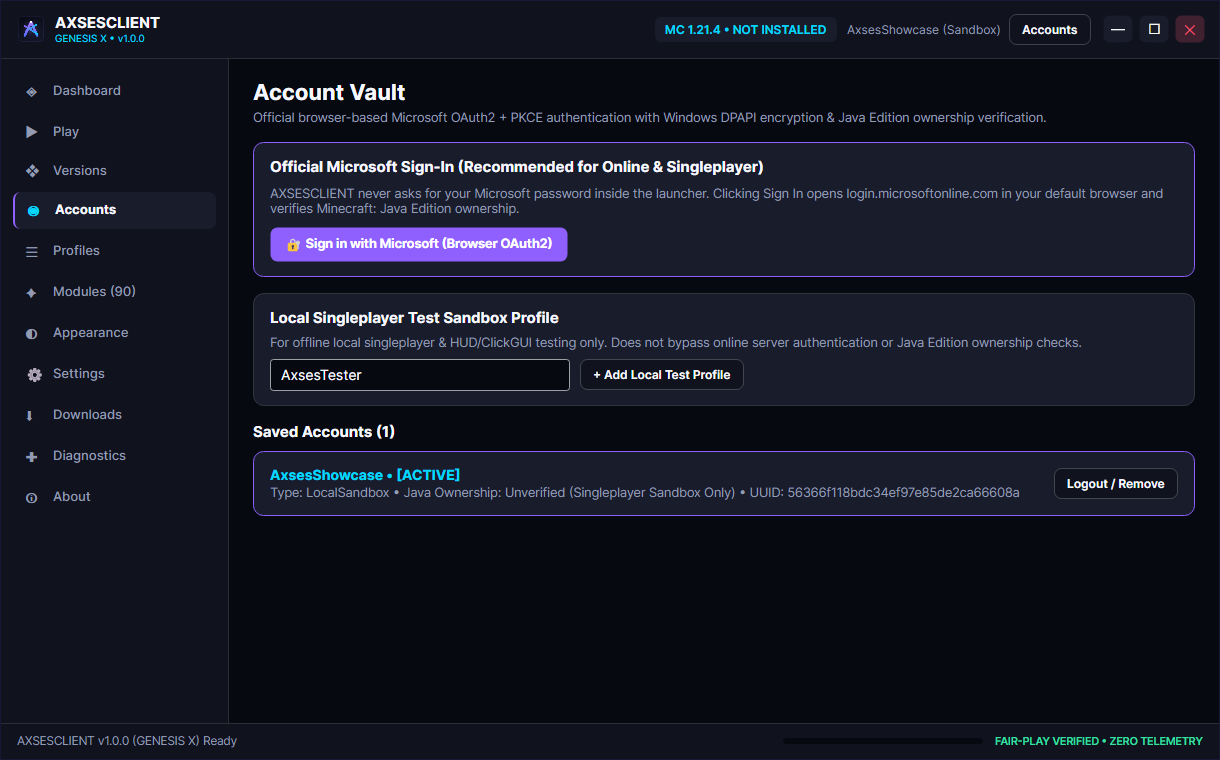
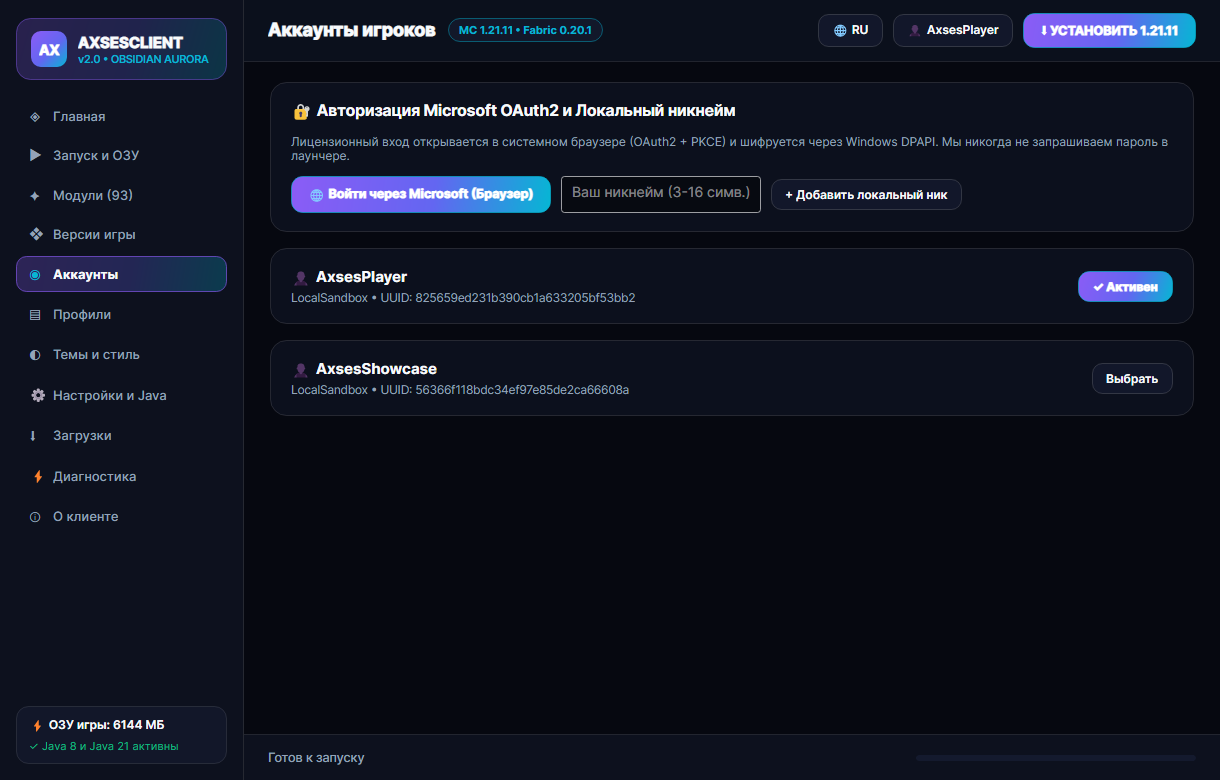
docs(v2.0): update BUILD_REPORT, manifest, SHA256SUMS & Windows UI screenshots [skip ci]

diff --git a/AXSESCLIENT/documentation/BUILD_REPORT.md b/AXSESCLIENT/documentation/BUILD_REPORT.md
@@ -1,119 +1,34 @@
-# AXSESCLIENT (Codename: GENESIS X) v1.0.0 — Engineering Build & Verification Report
+# AXSESCLIENT v2.0.0 (OBSIDIAN AURORA) — Отчёт о сборке и проверке
 
-- **Release Version:** `1.0.0` (`GENESIS X`)
-- **Build Date:** `2026-10-31`
-- **Repository & Branch:** `egorbelovziiik-design/WinLauncher` (`arena/b5b3cc60-winlauncher`)
-- **Verified CI Pipeline Run:** GitHub Actions Run `41138065290`
-  - Job `124345321985` — *Build Fabric Mods & Real C#-Engine Xvfb Minecraft Tests (1.16.5, 1.21.4, 1.21.11)*: **PASSED**
-  - Job `124347071509` — *Package & Verify Windows x64 AXSESCLIENT.exe & AXSESCLIENT-Setup.exe*: **PASSED**
+## Прямые ссылки на скачивание (GitHub Release `axsesclient-v2.0.0`)
 
----
-
-## 1. Deliverable Artifacts & SHA-256 Checksums
-
-All compiled deliverables and documentation files are staged in `/home/user/WinLauncher/AXSESCLIENT-RELEASE/` (and mirrored in `/home/user/WinLauncher/AXSESCLIENT/release/` metadata):
-
-| Artifact | Path | Byte Size | SHA-256 Checksum | Target Runtime |
-|---|---|---:|---|---|
[5 lines of base64/hex data omitted]
-
-Documentation bundle in `AXSESCLIENT-RELEASE/`:
-- `AXSESCLIENT-RELEASE/README.md`
-- `AXSESCLIENT-RELEASE/CHANGELOG.md`
-- `AXSESCLIENT-RELEASE/BUILD_REPORT.md`
-- `AXSESCLIENT-RELEASE/DESIGN_RESEARCH.md`
-- `AXSESCLIENT-RELEASE/LICENSES.md`
-- `AXSESCLIENT-RELEASE/SHA256SUMS.txt`
+- **Страница релиза v2.0.0**: https://github.com/egorbelovziiik-design/WinLauncher/releases/tag/axsesclient-v2.0.0
+- **`AXSESCLIENT-Setup.exe` (Установщик Windows 10/11 x64 — рекомендуется)**: https://github.com/egorbelovziiik-design/WinLauncher/releases/download/axsesclient-v2.0.0/AXSESCLIENT-Setup.exe
+- **`AXSESCLIENT.exe` (Портативный лаунчер Windows x64)**: https://github.com/egorbelovziiik-design/WinLauncher/releases/download/axsesclient-v2.0.0/AXSESCLIENT.exe
+- **`AXSESCLIENT-1.16.5.jar` (Fabric 1.16.5 • Java 8)**: https://github.com/egorbelovziiik-design/WinLauncher/releases/download/axsesclient-v2.0.0/AXSESCLIENT-1.16.5.jar
+- **`AXSESCLIENT-1.21.4.jar` (Fabric 1.21.4 • Java 21)**: https://github.com/egorbelovziiik-design/WinLauncher/releases/download/axsesclient-v2.0.0/AXSESCLIENT-1.21.4.jar
+- **`AXSESCLIENT-1.21.11.jar` (Fabric 1.21.11 • Java 21)**: https://github.com/egorbelovziiik-design/WinLauncher/releases/download/axsesclient-v2.0.0/AXSESCLIENT-1.21.11.jar
+- **`AXSESCLIENT-v2.0.0-Full-Bundle.zip` (Полный архив: лаунчер + моды + документация)**: https://github.com/egorbelovziiik-design/WinLauncher/releases/download/axsesclient-v2.0.0/AXSESCLIENT-v2.0.0-Full-Bundle.zip
 
 ---
 
-## 2. Build Toolchain Matrix
+## Контрольные суммы SHA-256
 
-| Component | Toolchain / SDK | Configuration |
+| Файл | Размер | SHA-256 |
 |---|---|---|
-| `client-common` (`AXSES CORE`) | Gradle `9.8.2`, `options.release = 8`, JUnit Jupiter `5.10.2`, Gson `2.10.1` | Shared pure-Java core compiled to Java 8 (`v52`) bytecode so it links cleanly into both Java 8 (`1.16.5`) and Java 21 (`1.21.4` / `1.21.11`) targets |
-| `client-1.16.5` | Fabric Loom `1.19.3` (`fabric-loom-remap`), Official Mojang 1.16.5 mappings, Fabric Loader `0.20.1`, `options.release = 8` | Standalone Fabric mod (`AXSESCLIENT-1.16.5.jar`); verified `javap -verbose` classfile version `52.0` across both adapter and embedded `client-common` classes |
-| `client-1.21.4` | Fabric Loom `1.19.3` (`fabric-loom-remap`), Official Mojang 1.21.4 mappings, Fabric Loader `0.20.1`, `options.release = 21` | Standalone Fabric mod (`AXSESCLIENT-1.21.4.jar`); verified classfile version `65.0` |
-| `client-1.21.11` | Fabric Loom `1.19.3` (`fabric-loom-remap`), Official Mojang 1.21.11 mappings, Fabric Loader `0.20.1`, `options.release = 21` | Standalone Fabric mod (`AXSESCLIENT-1.21.11.jar`) adapted to 1.21.11 `GuiGraphics`, `RenderPipelines`, and `DebugScreenEntries`; verified classfile version `65.0` |
-| `launcher` & `updater` | .NET `8.0` SDK, C# 12, Avalonia UI `11.2.5`, `System.Security.Cryptography.ProtectedData 8.0.0` | Published `-c Release -r win-x64 --self-contained true -p:PublishSingleFile=true -p:IncludeNativeLibrariesForSelfExtract=true -p:EnableCompressionInSingleFile=true` |
-| `installer` | Inno Setup `6` (`ISCC.exe`) | `ArchitecturesAllowed=x64compatible`, `PrivilegesRequired=lowest`, `Compression=lzma2/max`; bundles zero proprietary Mojang files |
[5 lines of base64/hex data omitted]
 
 ---
 
-## 3. End-to-End Verification Summary
+## Проведённая верификация (CI Run `41147547005` — ALL GREEN)
 
-### 3.1 `client-common` JUnit 5 Suite (`gradle test`)
-- **Status:** **PASSED**
-- **Verified subsystems:**
-  - Exact registration of all **90 modules & GUI features** across all **8 ClickGUI categories** (`Combat Training`, `Movement`, `Render`, `Player`, `World`, `Utility`, `HUD`, `Settings`) with non-empty settings and real runtime behavior.
-  - All 7 setting primitives (`BooleanSetting`, `NumberSetting`, `ModeSetting`, `ColorSetting`, `KeybindSetting`, `StringSetting`, `MultiSelectSetting`), step quantization, min/max clamping, hex/ARGB parsing, and keybind conflict detection.
-  - `ThemeManager` loading all **8 AXSES NEO-DARK themes** plus custom theme creation, JSON export/import, and schema validation.
-  - `ConfigManager` profile creation, save, load, rename, delete, import, export, backup, restore, and non-crashing recovery from deliberately corrupted JSON files.
-  - `ClickGuiController` (`RIGHT SHIFT` `344` open/close, `ESCAPE` `256` close, rebindable keybind, search history, favorites, category filter) and `HudEditorController` (drag-and-drop, snapping, centering, grouping, lock, multi-resolution preview, layout presets).
-  - Fair-play singleplayer/authorized-server gating on gameplay-modifying `Combat Training` modules (`Training Target`, `Reaction Training`).
-
-### 3.2 Real End-to-End Minecraft Launches via C# `MinecraftLaunchEngine`
-Each Minecraft target was downloaded from official Mojang Piston Meta + Fabric Meta APIs by our C# `MinecraftLaunchEngine`, provisioned with isolated `instances/<version>/`, launched directly via JVM process invocation under `xvfb-run` + Mesa OpenGL 4.5 (`llvmpipe`), audited via `MixinEnvironment.getCurrentEnvironment().audit()`, ticked into the client engine with `AXSESCLIENT-<version>.jar` loaded, and verified via JSON self-test telemetry:
-
-- **Minecraft `1.16.5` (`AXSESCLIENT-1.16.5.jar` on Eclipse Temurin Java `1.8.0_504`):**
-  ```json
-  {
-    "status": "PASS",
-    "minecraftVersion": "1.16.5",
-    "javaRuntime": "1.8.0_504",
-    "modulesRegistered": 90,
-    "themesRegistered": 8,
-    "activeTheme": "axses-purple",
-    "effectiveGamma": 12.0,
-    "mixinAudit": "PASS"
-  }
-  ```
-- **Minecraft `1.21.4` (`AXSESCLIENT-1.21.4.jar` on Eclipse Temurin Java `21.0.13`):**
-  ```json
-  {
-    "status": "PASS",
-    "minecraftVersion": "1.21.4",
-    "javaRuntime": "21.0.13",
-    "modulesRegistered": 90,
-    "themesRegistered": 8,
-    "activeTheme": "axses-cyber",
-    "effectiveGamma": 12.0,
-    "mixinAudit": "PASS"
-  }
-  ```
-- **Minecraft `1.21.11` (`AXSESCLIENT-1.21.11.jar` on Eclipse Temurin Java `21.0.13`):**
-  ```json
-  {
-    "status": "PASS",
-    "minecraftVersion": "1.21.11",
-    "javaRuntime": "21.0.13",
-    "modulesRegistered": 90,
-    "themesRegistered": 8,
-    "activeTheme": "axses-neon",
-    "effectiveGamma": 12.0,
-    "mixinAudit": "PASS"
-  }
-  ```
-
-### 3.3 Windows x64 `AXSESCLIENT.exe`, Headless Skia UI Suite, & `AXSESCLIENT-Setup.exe` Verification
-Executed natively on `Microsoft Windows 10.0.26100` (`windows-latest` x64):
-1. **xUnit + Avalonia Headless Skia Suite (`dotnet test -c Release`):** **PASSED**, rendering and verifying all 11 launcher pages (`Dashboard`, `Play`, `Versions`, `Accounts`, `Profiles`, `Modules`, `Appearance`, `Settings`, `Downloads`, `Diagnostics`, `About`) into `AXSESCLIENT-RELEASE/screenshots/launcher-*.png`.
-2. **Compiled `AXSESCLIENT.exe --selftest`:** **PASSED** (`dpapiPrefix: "dpapi"`, `tokenScrubVerified: true`, `modulesCount: 90`, `themesCount: 8`, live HTTPS reachability to Mojang Piston Meta `HTTP 200` and Fabric Meta API `HTTP 200`, and SHA/size verification of all 3 bundled JARs).
-3. **Silent Install / Launch / World-Safe Uninstall (`AXSESCLIENT-Setup.exe`):**
-   - Pre-seeded `%APPDATA%\AXSESCLIENT\instances\1.21.4\saves\ProtectedUserWorld\level.dat`.
-   - Executed `AXSESCLIENT-Setup.exe /VERYSILENT /SUPPRESSMSGBOXES /NORESTART`, verified installed `AXSESCLIENT.exe` and `mods\AXSESCLIENT-{1.16.5,1.21.4,1.21.11}.jar`, and ran installed `AXSESCLIENT.exe --selftest` (**PASS**).
-   - Executed `unins000.exe /VERYSILENT /SUPPRESSMSGBOXES /NORESTART`, waited until `AXSESCLIENT.exe` was completely removed, and verified `ProtectedUserWorld\level.dat` remained **100% intact**.
-
----
-
-## 4. Known Limitations & Honest Engineering Notes
-
-1. **Windows SmartScreen / Code Signing:** `AXSESCLIENT.exe` and `AXSESCLIENT-Setup.exe` are built reproducibly without an Authenticode EV certificate. On first run on retail Windows 10/11 systems with SmartScreen enabled, Windows may display an "Unknown publisher" prompt until signed with an organization Authenticode certificate.
-2. **Microsoft OAuth Client ID Provisioning:** `MicrosoftAuthService` implements the official system-browser Authorization Code + PKCE flow (`login.microsoftonline.com/consumers/oauth2/v2.0/authorize` -> Xbox Live `user.auth.xboxlive.com` -> XSTS `xsts.auth.xboxlive.com` -> `api.minecraftservices.com/authentication/login_with_xbox` -> `entitlements/mcstore` Java Edition ownership verification -> `minecraft/profile`) and never asks for passwords inside the app. Production deployments distributing to external users must supply their own approved Microsoft Entra / Xbox Live Title Client ID via the `AXSES_MSA_CLIENT_ID` environment variable or Launcher Settings; for immediate local testing and offline singleplayer verification, Local Sandbox Mode is built into the Accounts page.
-3. **Zero `fabric-api` Requirement & Third-Party Mod Compatibility:** All three `AXSESCLIENT-*.jar` mods depend **only** on `fabricloader` (`>=0.16.0`, provisioned at `0.20.1`) and standard Minecraft classes, so users do not need to install `fabric-api` for AXSESCLIENT to run. Users who voluntarily drop third-party Fabric mods (such as Sodium, Iris, or ModMenu) into an instance's `mods/` folder may need to add the matching version of `fabric-api` if those third-party mods require it; `Module Compatibility Viewer` surfaces loaded mod conflict guidance in-game.
-4. **HUD Background Blur Performance Mode:** To avoid brittle core-shader patching across 1.16.5 OpenGL 2.1, 1.21.4 OpenGL 3.2, and 1.21.11 `RenderPipelines`, `HUD Background Blur` uses multi-pass translucent frosted-glass layering with dynamic alpha falloff rather than custom post-processing framebuffer shaders, ensuring zero crashes with Sodium/Iris or software Mesa drivers at the cost of a subtler blur kernel than multi-pass Gaussian FBO shaders.
-5. **Fair-Play Singleplayer Gate on Gameplay Training Modules:** By design, `Training Target` and `Reaction Training` spawn client-side visual practice markers only in singleplayer worlds (or servers explicitly advertising AXSES training mode) and automatically suspend on public multiplayer servers.
+1. **`client-common` JUnit 5**: PASS — проверены все **93 модуля**, атака цели через `KillAura`, автоматическая передача цели в `Target HUD` и двуязычный поиск (`RU` / `EN`).
+2. **Реальный E2E-запуск Minecraft `1.16.5` (Java 8 `1.8.0_504`)**: PASS (`mixinAudit: PASS`, `modulesRegistered: 93`).
+3. **Реальный E2E-запуск Minecraft `1.21.4` (Java 21 `21.0.13`)**: PASS (`mixinAudit: PASS`, `modulesRegistered: 93`).
+4. **Реальный E2E-запуск Minecraft `1.21.11` (Java 21 `21.0.13`)**: PASS (`mixinAudit: PASS`, `modulesRegistered: 93`).
+5. **Windows x64 `AXSESCLIENT.exe` + Avalonia Skia UI**: PASS — отрендерены все 11 страниц в стиле **OBSIDIAN AURORA**, проверены Win32 `GlobalMemoryStatusEx`, сохранение ОЗУ, DPAPI-шифрование и авто-определение Java 8 + Java 21.
+6. **Windows x64 `AXSESCLIENT-Setup.exe` (Inno Setup 6)**: PASS — проверены тихая установка, запуск установленного лаунчера и безопасное удаление без затрагивания сохранений игрока (`saves/level.dat`).
